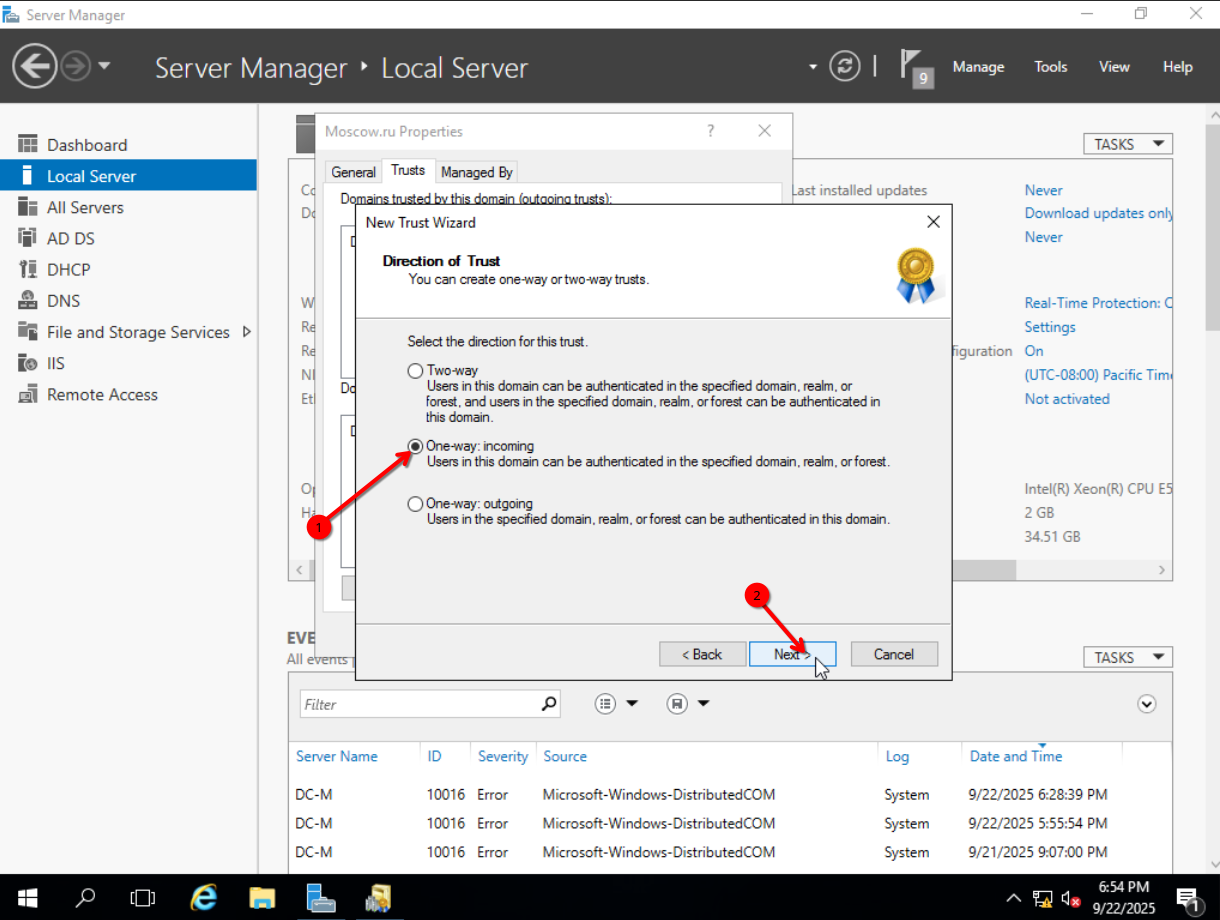
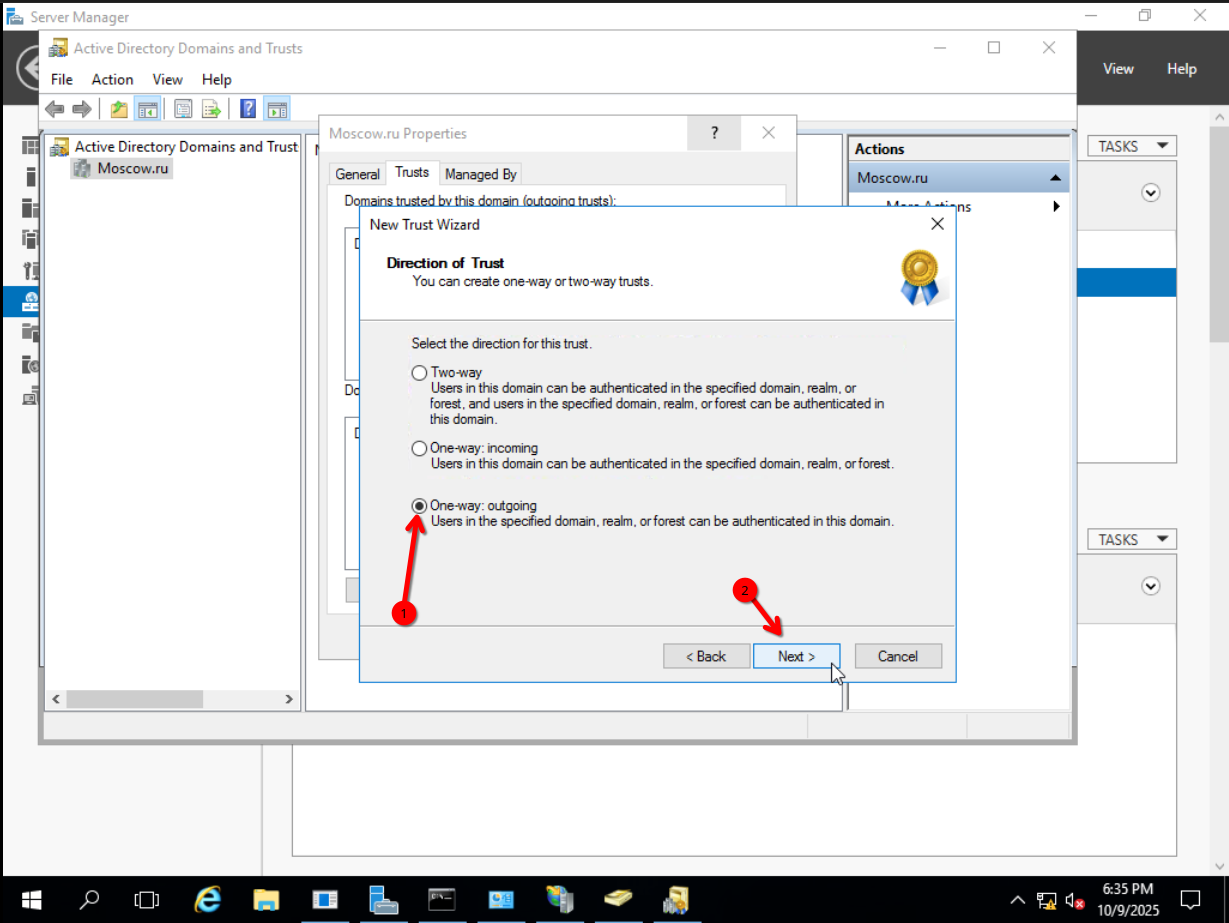
RDS, else

diff --git a/SSA_ASOS_2023/SSA_ASOS_2023_Guide.md b/SSA_ASOS_2023/SSA_ASOS_2023_Guide.md
@@ -161,6 +161,7 @@ sconfig
 ![](images/SSA_ASOS_2023_Guide_20250927193237719.png)
 ![](images/SSA_ASOS_2023_Guide_20250927193304908.png)
 
+RSAT на **CLIENT-M** - не поставляется в образе
 
 ## Поднятие домена
 Пример для **DC-M**, для **DC-IZ** по аналогии
@@ -300,6 +301,7 @@ ipconfig /renew
 ![](images/SSA_ASOS_2023_Guide_20250921115448359.png)
 ![](images/SSA_ASOS_2023_Guide_20250921115517679.png)
 ![](images/SSA_ASOS_2023_Guide_20250921115854454.png)
+
 Настроим и создадим PTR зону, а так же её репликацию на FILES-M 
 ![](images/SSA_ASOS_2023_Guide_20250921120104356.png)
 ![](images/SSA_ASOS_2023_Guide_20250921121924697.png)
@@ -311,13 +313,17 @@ ipconfig /renew
 ![](images/SSA_ASOS_2023_Guide_20250921122215973.png)
 ![](images/SSA_ASOS_2023_Guide_20250921122233311.png)
 ![](images/SSA_ASOS_2023_Guide_20250921122628865.png)
+
 Операцию создания PTR записи повторить для всех записей типа "A", кроме записей для машин **EDGE**, в которых IP адрес находится в другой подсети
 ![](images/SSA_ASOS_2023_Guide_20250921123034162.png)
+
 Проверим, что зоны DNS реплицировались на **FILES-M**
 ![](images/SSA_ASOS_2023_Guide_20250921123447935.png)
 ![](images/SSA_ASOS_2023_Guide_20250921123558451.png)
+
 ## USERGATE
 Его не будет, т.к. на текущем стенде в поставляемом образе отсутствует установщик :(
+
 ## RRAS
 На **DC-M**, по аналогии настроить на **DC-IZ**
 ![](images/SSA_ASOS_2023_Guide_20250921135331560.png)
@@ -332,7 +338,9 @@ ipconfig /renew
 ![](images/SSA_ASOS_2023_Guide_20250921135914902.png)
 ![](images/SSA_ASOS_2023_Guide_20250921135935011.png)
 ![](images/SSA_ASOS_2023_Guide_20250921140305996.png)
+
 Далее пример настройки маршрутизации в сегменте Ижевска, по аналогии сделать в Москве
+
 На **DC-IZ**
 ![](images/SSA_ASOS_2023_Guide_20250921221251567.png)
 ![](images/SSA_ASOS_2023_Guide_20250921221331687.png)
@@ -360,8 +368,10 @@ ipconfig /renew
 ![](images/SSA_ASOS_2023_Guide_20250921225919814.png)
 ![](images/SSA_ASOS_2023_Guide_20250921230200276.png)
 ![](images/SSA_ASOS_2023_Guide_20250921232014077.png)
+
 Теперь чтобы наши настройки точно применились, перезагрузим RRAS
 ![](images/SSA_ASOS_2023_Guide_20250921232256699.png)
+
 Проверим, что между сетями есть связь, с **DC-M** пинганём **DC-IZ**
 ![](images/SSA_ASOS_2023_Guide_20250922210350979.png)
 
@@ -391,8 +401,8 @@ Moscow.ru должны иметь доступ к ресурсам домена 
 ![](images/SSA_ASOS_2023_Guide_20250922220246775.png)
 ![](images/SSA_ASOS_2023_Guide_20250922220334367.png)
 ![](images/SSA_ASOS_2023_Guide_20250922220424666.png)
-![](images/SSA_ASOS_2023_Guide_20250922220635947.png)
-![](images/SSA_ASOS_2023_Guide_20250922220731945.png)
+![](images/SSA_ASOS_2023_Guide_20251009220320797.png)
+![](images/SSA_ASOS_2023_Guide_20251009221026874.png)
 
 Теперь подтвердим траст
 ![](images/SSA_ASOS_2023_Guide_20250922223332251.png)
@@ -405,6 +415,7 @@ Moscow.ru должны иметь доступ к ресурсам домена 
 
 Чтобы проверить, что односторонний траст был настроен, на **CLIENT-IZ** зайдем под пользователем Administrator в домене Moscow.ru
 ![](images/SSA_ASOS_2023_Guide_20250922224620896.png)
+
 Если нас впустило, то всё сработало
 ![](images/SSA_ASOS_2023_Guide_20250922224926227.png)
 
@@ -825,7 +836,7 @@ netsh fi set opmode DISABLE
 ![](images/SSA_ASOS_2023_Guide_20250929235123280.png)
 ![](images/SSA_ASOS_2023_Guide_20250930000239781.png)
 
-## Службы сертификации - не работает
+## Службы сертификации
 -  Установите службы сертификации
 На **ROOTCA-M**
 ![](images/SSA_ASOS_2023_Guide_20251002222610112.png)
@@ -1006,3 +1017,216 @@ http://RU-SUBCA.russia.net/certenroll/<serverdnsname>_<caname><certificatename>.
 На **SUBCA-M**
 Вскоре после входа на **CLIENT-M** (около 1-3 минут), в issued certificates должны появиться следующие сертификаты:
 ![](images/SSA_ASOS_2023_Guide_20251005184542341.png)
+
+## Донастройка DNS
+```
+создайте вручную все необходимые записи типа A и PTR для серверов домена и необходимых web-сервисов
+```
+На **DC-M**
+![](images/SSA_ASOS_2023_Guide_20251007200926838.png)
+![](images/SSA_ASOS_2023_Guide_20251007201257667.png)
+![](images/SSA_ASOS_2023_Guide_20251007203959511.png)
+
+На **DC-IZ**
+Сделать то-же самое по аналогии, но вписать в форвардеры 172.16.0.1 и домен moscow.ru
+
+Создадим A и PTR записи для сайтов
+
+На **DC-M**
+![](images/SSA_ASOS_2023_Guide_20251007205250560.png)
+![](images/SSA_ASOS_2023_Guide_20251007205400275.png)
+![](images/SSA_ASOS_2023_Guide_20251007205408004.png)
+
+Таким же образом создайте запись `www` с адресом `172.19.0.3`
+
+На **DC-IZ**
+
+Создайте запись `www` в зоне `izhevsk.ru` по той же схеме что и для `moscow.ru` с адресом `172.19.0.3`
+
+Так-же создайте запись `rds` в зоне `izhevsk.ru` с адресом 172.19.0.1
+
+## Службы удаленных рабочих столов (RDS)
+### Перенастройка трастов
+На **DC-M**
+![](images/SSA_ASOS_2023_Guide_20251010211621342.png)
+![](images/SSA_ASOS_2023_Guide_20251010211637413.png)
+![](images/SSA_ASOS_2023_Guide_20251010211833146.png)
+![](images/SSA_ASOS_2023_Guide_20251010211842818.png)
+
+Теперь настроим двустороннее доверие
+![](images/SSA_ASOS_2023_Guide_20251010212030713.png)
+![](images/SSA_ASOS_2023_Guide_20251010212121552.png)
+![](images/SSA_ASOS_2023_Guide_20251010212259788.png)
+![](images/SSA_ASOS_2023_Guide_20251010212313266.png)
+![](images/SSA_ASOS_2023_Guide_20251010212435843.png)
+![](images/SSA_ASOS_2023_Guide_20251010212508400.png)
+![](images/SSA_ASOS_2023_Guide_20251010212523328.png)
+![](images/SSA_ASOS_2023_Guide_20251010212754623.png)
+![](images/SSA_ASOS_2023_Guide_20251010212807672.png)
+![](images/SSA_ASOS_2023_Guide_20251010212827486.png)
+![](images/SSA_ASOS_2023_Guide_20251010212847269.png)
+![](images/SSA_ASOS_2023_Guide_20251010212906714.png)
+![](images/SSA_ASOS_2023_Guide_20251010212924732.png)
+![](images/SSA_ASOS_2023_Guide_20251010212951453.png)
+
+### Настройка DNS суффикса на DC-IZ
+![](images/SSA_ASOS_2023_Guide_20251011004451394.png)
+![](images/SSA_ASOS_2023_Guide_20251011004506357.png)
+![](images/SSA_ASOS_2023_Guide_20251011004526498.png)
+![](images/SSA_ASOS_2023_Guide_20251011004553077.png)
+![](images/SSA_ASOS_2023_Guide_20251011004601815.png)
+![](images/SSA_ASOS_2023_Guide_20251011004656943.png)
+![](images/SSA_ASOS_2023_Guide_20251011004719823.png)
+![](images/SSA_ASOS_2023_Guide_20251011004741559.png)
+![](images/SSA_ASOS_2023_Guide_20251011004757323.png)
+![](images/SSA_ASOS_2023_Guide_20251011004807077.png)
+![](images/SSA_ASOS_2023_Guide_20251011004815602.png)
+
+### Настройка публикаций в RDS
+![](images/SSA_ASOS_2023_Guide_20251007212237961.png)
+![](images/SSA_ASOS_2023_Guide_20251007220044455.png)
+![](images/SSA_ASOS_2023_Guide_20251008212143160.png)
+![](images/SSA_ASOS_2023_Guide_20251008212203671.png)
+![](images/SSA_ASOS_2023_Guide_20251008212219081.png)
+![](images/SSA_ASOS_2023_Guide_20251008212237600.png)
+![](images/SSA_ASOS_2023_Guide_20251008215745021.png)
+![](images/SSA_ASOS_2023_Guide_20251008215824863.png)
+![](images/SSA_ASOS_2023_Guide_20251008215922238.png)
+
+Настроим публикацию программ
+
+Wordpad
+![](images/SSA_ASOS_2023_Guide_20251008215931624.png)
+![](images/SSA_ASOS_2023_Guide_20251008220252532.png)
+![](images/SSA_ASOS_2023_Guide_20251010213317706.png)
+![](images/SSA_ASOS_2023_Guide_20251008220534889.png)
+![](images/SSA_ASOS_2023_Guide_20251008220548675.png)
+![](images/SSA_ASOS_2023_Guide_20251008220802315.png)
+![](images/SSA_ASOS_2023_Guide_20251011004905720.png)
+
+Notepad
+![](images/SSA_ASOS_2023_Guide_20251011005426982.png)
+![](images/SSA_ASOS_2023_Guide_20251011111323249.png)
+![](images/SSA_ASOS_2023_Guide_20251011111421672.png)
+![](images/SSA_ASOS_2023_Guide_20251011111432905.png)
+![](images/SSA_ASOS_2023_Guide_20251011111443172.png)
+![](images/SSA_ASOS_2023_Guide_20251011111510881.png)
+![](images/SSA_ASOS_2023_Guide_20251011111532735.png)
+![](images/SSA_ASOS_2023_Guide_20251011111612746.png)
+
+При выборе локации из которой искать объекты, попросит авторизоваться, авторизуемся под `Moscow.ru\Administrator`
+![](images/SSA_ASOS_2023_Guide_20251011111908371.png)
+![](images/SSA_ASOS_2023_Guide_20251011111934018.png)
+
+На **SUBCA-M** установим web сервер для создания запросов на сертификаты
+![](images/SSA_ASOS_2023_Guide_20251011142317684.png)
+![](images/SSA_ASOS_2023_Guide_20251011142325329.png)
+![](images/SSA_ASOS_2023_Guide_20251011142335712.png)
+![](images/SSA_ASOS_2023_Guide_20251011142415343.png)
+![](images/SSA_ASOS_2023_Guide_20251011142449094.png)
+![](images/SSA_ASOS_2023_Guide_20251011142456224.png)
+![](images/SSA_ASOS_2023_Guide_20251011142518446.png)
+![](SSA_ASOS_2023_Guide_20251011142659832.png
+
+### Разрешим доступ к RDS из moscow.ru
+![](images/SSA_ASOS_2023_Guide_20251012141244205.png)
+![](images/SSA_ASOS_2023_Guide_20251012141423391.png)
+
+### Раздача корневых сертификатов
+На **DC-M**
+На диске C создайте папку certnew и скопируйте туда PKCS7 сертификат, полученный ранее
+![](images/SSA_ASOS_2023_Guide_20251011154628780.png)
+
+Затем дайте общий доступ к этой папке
+![](images/SSA_ASOS_2023_Guide_20251011155012053.png)
+
+На **DC-IZ** создайте GPO с именем "cert" в корне домена izhevsk.ru и настройте его, так же мы опубликуем crl
+![](images/SSA_ASOS_2023_Guide_20251011153636903.png)
+![](images/SSA_ASOS_2023_Guide_20251011153935914.png)
+![](images/SSA_ASOS_2023_Guide_20251011153952055.png)
+![](images/SSA_ASOS_2023_Guide_20251011154000103.png)
+![](images/SSA_ASOS_2023_Guide_20251011155200387.png)
+![](images/SSA_ASOS_2023_Guide_20251011155210218.png)
+![](images/SSA_ASOS_2023_Guide_20251011155221992.png)
+![](images/SSA_ASOS_2023_Guide_20251011155231991.png)
+
+На **SUBCA-M**
+
+Публикация crl, найдите наиболее новый файл, если их несколько
+![](images/SSA_ASOS_2023_Guide_20251011235240361.png)
+![](images/SSA_ASOS_2023_Guide_20251011235307525.png)
+![](images/SSA_ASOS_2023_Guide_20251011235344218.png)
+![](images/SSA_ASOS_2023_Guide_20251011235401564.png)
+![](images/SSA_ASOS_2023_Guide_20251011234847144.png)
+![](images/SSA_ASOS_2023_Guide_20251011234925038.png)
+![](images/SSA_ASOS_2023_Guide_20251011235037285.png)
+![](images/SSA_ASOS_2023_Guide_20251011235103058.png)
+![](images/SSA_ASOS_2023_Guide_20251011235114011.png)
+![](images/SSA_ASOS_2023_Guide_20251011235127025.png)
+![](images/SSA_ASOS_2023_Guide_20251011235136232.png)
+
+### Настройка сертификатов RDS
+![](images/SSA_ASOS_2023_Guide_20251011180030885.png)
+![](images/SSA_ASOS_2023_Guide_20251011180146668.png)
+![](images/SSA_ASOS_2023_Guide_20251011180227663.png)
+![](images/SSA_ASOS_2023_Guide_20251011181032612.png)
+![](images/SSA_ASOS_2023_Guide_20251011181103830.png)
+![](images/SSA_ASOS_2023_Guide_20251011181227298.png)
+![](images/SSA_ASOS_2023_Guide_20251011181253600.png)
+![](images/SSA_ASOS_2023_Guide_20251011181432107.png)
+![](images/SSA_ASOS_2023_Guide_20251011181455793.png)
+![](images/SSA_ASOS_2023_Guide_20251011181520943.png)
+
+Теперь нужно пошарить папку и получить ответ от нашего CA на только что созданный запрос
+![](images/SSA_ASOS_2023_Guide_20251011182022843.png)
+![](images/SSA_ASOS_2023_Guide_20251011182056986.png)
+![](images/SSA_ASOS_2023_Guide_20251011182128415.png)
+![](images/SSA_ASOS_2023_Guide_20251011182148723.png)
+![](images/SSA_ASOS_2023_Guide_20251011182202130.png)
+![](images/SSA_ASOS_2023_Guide_20251011182211586.png)
+
+На **SUBCA-M**
+![](images/SSA_ASOS_2023_Guide_20251011183646360.png)
+![](images/SSA_ASOS_2023_Guide_20251011183941728.png)
+![](images/SSA_ASOS_2023_Guide_20251011183955954.png)
+![](images/SSA_ASOS_2023_Guide_20251011184103358.png)
+
+На **DC-IZ**
+![](images/SSA_ASOS_2023_Guide_20251011184224153.png)
+![](images/SSA_ASOS_2023_Guide_20251011184433330.png)
+![](images/SSA_ASOS_2023_Guide_20251011185059451.png)
+
+Теперь установим сертификат
+![](images/SSA_ASOS_2023_Guide_20251011185145331.png)
+![](images/SSA_ASOS_2023_Guide_20251011185309038.png)
+![](images/SSA_ASOS_2023_Guide_20251011185431943.png)
+![](images/SSA_ASOS_2023_Guide_20251011185453106.png)
+
+Повторить для всех строк, чтобы статус был Trusted
+![](images/SSA_ASOS_2023_Guide_20251011185927522.png)
+
+### Настроим ссылку для доступа
+На **DC-IZ**
+![](images/SSA_ASOS_2023_Guide_20251012153631583.png)
+![](images/SSA_ASOS_2023_Guide_20251012153612354.png)
+![](images/SSA_ASOS_2023_Guide_20251012153510336.png)
+
+
+### Разрешим уязвимое подключение
+На машине, с которой проверяем RDS, настроим политику чтобы разрешить уязвимое подключение (это не то-же самое, что разрешить подключение без сертификата)
+![](images/SSA_ASOS_2023_Guide_20251011232500364.png)
+![](images/SSA_ASOS_2023_Guide_20251011232806227.png)
+![](images/SSA_ASOS_2023_Guide_20251011232856797.png)
+
+### Проверим работу RDS
+
+С **CLIENT-M**, и по аналогии с **CLIENT-IZ**
+
+Открыть ссылку `https://rds.izhevsk.ru`
+![](images/SSA_ASOS_2023_Guide_20251011191737426.png)
+![](images/SSA_ASOS_2023_Guide_20251011191751155.png)
+![](images/SSA_ASOS_2023_Guide_20251011191800402.png)
+![](images/SSA_ASOS_2023_Guide_20251011191817603.png)
+![](images/SSA_ASOS_2023_Guide_20251011191903401.png)
+![](images/SSA_ASOS_2023_Guide_20251012130455588.png)
+![](images/SSA_ASOS_2023_Guide_20251012141558053.png)
